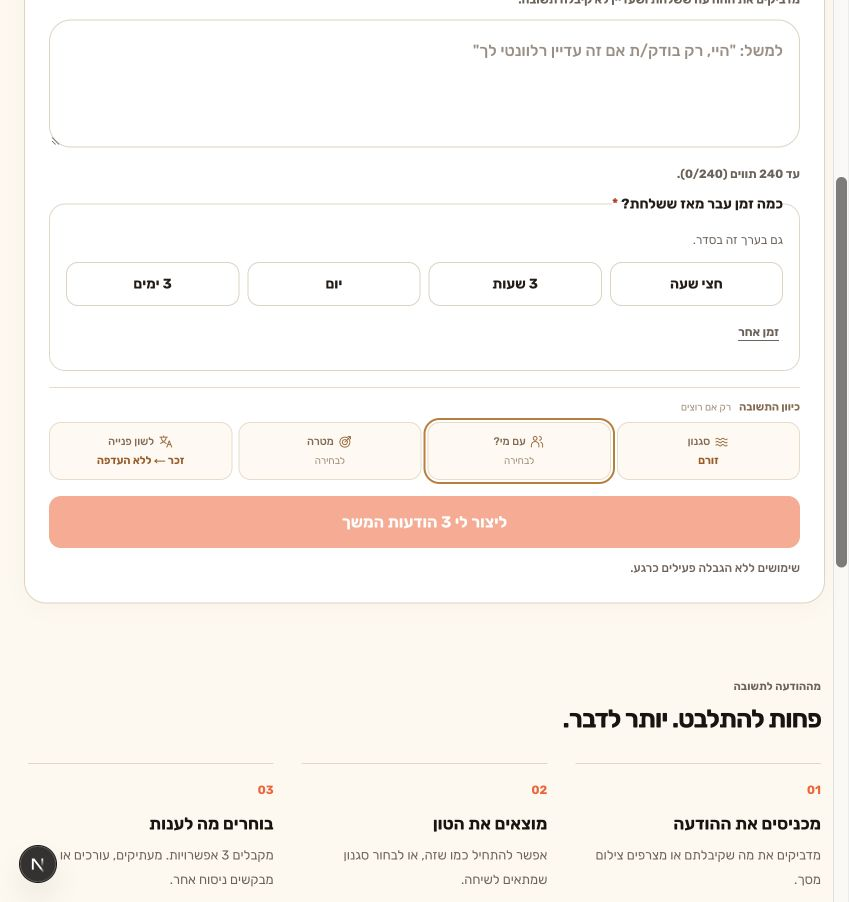
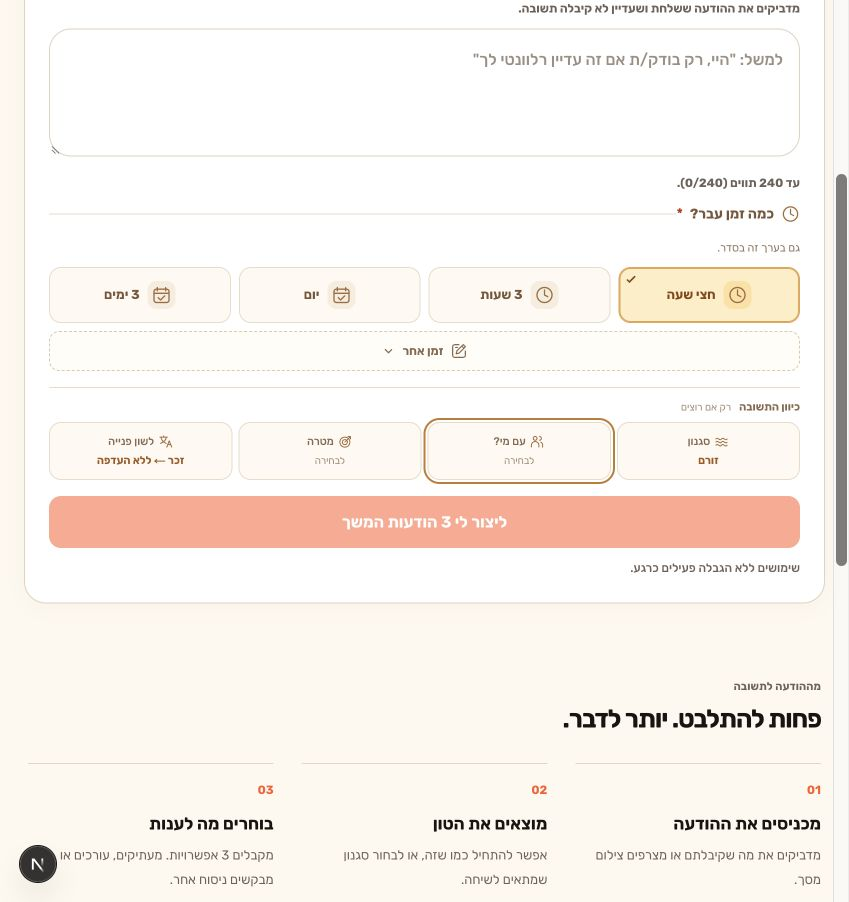
feat: match elapsed-time choices to the reply composer design

diff --git a/app/home-page-client.tsx b/app/home-page-client.tsx
@@ -29,6 +29,7 @@ import { createReplyHistory, recordReplyRefinement, getPreviousReply, clearReply
 import { getMissingCommitmentKind, type CommitmentMode, type LanguagePreferences, type ReplyContext } from '@/lib/reply-context';
 import { CommitmentControls, ContinueConversationDialog } from '@/components/reply-context-controls';
 import { ReplyDirectionControls } from '@/components/reply-direction-controls';
+import { DirectionIcon } from '@/components/direction-choice-visuals';
 import { areGenerationDraftsEqual, type GenerationDraft } from '@/lib/generation-draft';
 import { CONTINUE_PREFERENCE_OPTIONS, type DirectionField, type ContinuePreference, type IncomingGoal, type Goal } from '@/lib/reply-direction';
 import { captureAndStoreAttribution } from '@/lib/attribution';
@@ -2272,6 +2273,8 @@ export default function Home({
     parsedNoReplyDuration >= 1 &&
     parsedNoReplyDuration <= MAX_NO_REPLY_DURATION_VALUE;
   const hasNoReplyDurationUnit = noReplyDurationUnit !== '';
+  const hasCustomNoReplyDuration = hasValidNoReplyDuration && hasNoReplyDurationUnit &&
+    !noReplyDurationPresets.some((preset) => preset.value === noReplyDurationValue && preset.unit === noReplyDurationUnit);
   const isNoReplyReady =
     Boolean(trimmedLastOutgoingMessage) && hasValidNoReplyDuration && hasNoReplyDurationUnit;
   const generateButtonLabel = isLoading
@@ -4993,13 +4996,11 @@ export default function Home({
                     {MAX_LAST_OUTGOING_MESSAGE_LENGTH}).
                   </p>
 
-                  <fieldset className="rounded-2xl border border-[#e2d7c8] bg-[#faf7f2] p-3 sm:p-4">
-                    <legend
-                      className="text-sm font-semibold text-[#241d18]"
-                    >
-                      כמה זמן עבר מאז ששלחת? <span aria-hidden="true" className="text-[#c23318]">*</span>
+                  <fieldset className="sb-duration" aria-label="כמה זמן עבר מאז ששלחת?">
+                    <legend className="sb-duration-heading">
+                      <DirectionIcon name="clock" />כמה זמן עבר? <span aria-hidden="true" className="text-[#c23318]">*</span>
                     </legend>
-                    <p className="text-xs leading-5 text-[#6d6259]">גם בערך זה בסדר.</p>
+                    <p className="sb-duration-help">גם בערך זה בסדר.</p>
                     <div className="sb-duration-presets">
                       {noReplyDurationPresets.map((preset) => {
                         const selected = !showCustomNoReplyDuration && noReplyDurationValue === preset.value && noReplyDurationUnit === preset.unit;
@@ -5014,9 +5015,11 @@ export default function Home({
                               setShowCustomNoReplyDuration(false);
                               setHasTriedNoReplyContinue(false);
                             }}
-                            className={`min-h-[44px] rounded-xl border px-3 py-2 text-sm font-semibold transition ${selected ? 'border-[#ff5a2a] bg-[#fff0ea] text-[#7a2d19] ring-1 ring-[#ff5a2a]' : 'border-[#ded2c3] bg-white text-[#241d18] hover:border-[#b89c83]'} ${lightSurfaceFocusClass}`}
+                            className="sb-duration-option"
                           >
+                            <span className="sb-duration-icon"><DirectionIcon name={preset.unit === 'days' ? 'calendar' : 'clock'} /></span>
                             {preset.label}
+                            {selected ? <svg className="sb-duration-check" width="13" height="13" viewBox="0 0 16 16" fill="none" stroke="currentColor" strokeWidth="2" aria-hidden="true"><path d="m3 8 3 3 7-7" /></svg> : null}
                           </button>
                         );
                       })}
@@ -5025,16 +5028,22 @@ export default function Home({
                       type="button"
                       aria-expanded={showCustomNoReplyDuration}
                       aria-controls="no-reply-custom-duration"
+                      data-selected={hasCustomNoReplyDuration || undefined}
                       onClick={() => {
-                        setShowCustomNoReplyDuration(true);
+                        setShowCustomNoReplyDuration((visible) => !visible);
                         setHasTriedNoReplyContinue(false);
                       }}
-                      className={`mt-1 min-h-[44px] rounded-lg px-1 text-xs font-semibold text-[#6d6259] underline underline-offset-4 ${lightSurfaceFocusClass}`}
+                      className="sb-duration-custom-trigger"
                     >
+                      <DirectionIcon name="note" />
                       זמן אחר
+                      {hasCustomNoReplyDuration ? <span className="sb-duration-custom-value">{noReplyDurationValue} {noReplyDurationUnitOptions.find((option) => option.value === noReplyDurationUnit)?.label}</span> : null}
+                      <svg className="sb-duration-chevron" width="14" height="14" viewBox="0 0 16 16" fill="none" stroke="currentColor" strokeWidth="1.6" aria-hidden="true"><path d="m4 6 4 4 4-4" /></svg>
                     </button>
                     {showCustomNoReplyDuration ? (
-                    <div id="no-reply-custom-duration" className="mt-1 grid grid-cols-[minmax(0,0.8fr)_minmax(0,1fr)] gap-2">
+                    <div id="no-reply-custom-duration" className="sb-duration-custom-fields">
+                      <label htmlFor="no-reply-duration-value">כמה?</label>
+                      <label htmlFor="no-reply-duration-unit">יחידת זמן</label>
                       <input
                         id="no-reply-duration-value"
                         ref={noReplyDurationInputRef}

diff --git a/app/conversation-experience.css b/app/conversation-experience.css
@@ -212,11 +212,37 @@
 .sb-experience .sb-original-logo { width: 40px; height: 40px; flex-shrink: 0; }
 
 /* Compact elapsed-time choices in the follow-up composer. */
+.sb-experience .sb-duration { min-width: 0; margin: 0; padding: 12px 0 0; border: 0; border-top: 1px solid #eadbc9; background: transparent; color: #795637; }
+.sb-duration-heading { display: flex; align-items: center; gap: 7px; padding: 0; font-size: 14px; line-height: 22px; font-weight: 650; }
+.sb-duration-heading > svg { width: 19px; height: 19px; color: #a36a38; }
+.sb-duration-help { margin: 2px 0 10px; font-size: 11px; line-height: 18px; color: #8c7157; }
 .sb-experience .sb-duration-presets {
   display: grid;
   grid-template-columns: repeat(2, minmax(0, 1fr));
   gap: 8px;
-  margin-top: 12px;
+  margin-top: 0;
+}
+.sb-duration-option { position: relative; display: flex; align-items: center; justify-content: center; gap: 8px; min-width: 0; min-height: 56px; padding: 8px 14px; border: 1px solid #eadbc9; border-radius: 12px; background: #fffaf2; color: #795637; font-size: 13px; line-height: 20px; font-weight: 650; cursor: pointer; }
+.sb-duration-icon { display: inline-flex; align-items: center; justify-content: center; flex: 0 0 28px; height: 28px; border-radius: 9px; background: #f6eddf; color: #a36a38; }
+.sb-duration-icon > svg { width: 20px; height: 20px; }
+.sb-duration-option[aria-pressed="true"] { border-color: #e6a451; background: #ffedc5; color: #874611; box-shadow: inset 0 0 0 1px #e6a451; }
+.sb-duration-option[aria-pressed="true"] .sb-duration-icon { background: #ffe0a0; }
+.sb-duration-check { position: absolute; top: 5px; inset-inline-end: 5px; }
+.sb-duration-custom-trigger { display: flex; align-items: center; justify-content: center; gap: 7px; width: 100%; min-height: 40px; margin-top: 8px; padding: 6px 12px; border: 1px dashed #dfc9ad; border-radius: 10px; background: #fffdf8; color: #88694d; font-size: 12px; font-weight: 600; cursor: pointer; }
+.sb-duration-custom-trigger > svg:first-child { width: 17px; height: 17px; }
+.sb-duration-custom-trigger[aria-expanded="true"], .sb-duration-custom-trigger[data-selected] { border-style: solid; border-color: #e6a451; background: #fff0d4; }
+.sb-duration-custom-value { padding-inline-start: 7px; border-inline-start: 1px solid #dfc9ad; color: #874611; font-weight: 700; }
+.sb-duration-custom-trigger[aria-expanded="true"] .sb-duration-chevron { transform: rotate(180deg); }
+.sb-duration-custom-fields { display: grid; grid-template-columns: minmax(0, .8fr) minmax(0, 1fr); gap: 6px 8px; margin-top: 12px; }
+.sb-duration-custom-fields > label { font-size: 11px; color: #88694d; }
+.sb-duration-custom-fields > input, .sb-duration-custom-fields > select { background: #fffdf8; font-size: 16px; }
+.sb-duration-option:focus-visible, .sb-duration-custom-trigger:focus-visible { outline: 2px solid #c17c2c; outline-offset: 2px; }
+@media (hover: hover) {
+  .sb-duration-option:hover, .sb-duration-custom-trigger:hover { background: #fff5e4; border-color: #d6b58e; }
+  .sb-duration-option[aria-pressed="true"]:hover { background: #ffe7b3; }
+}
+@media (prefers-reduced-motion: no-preference) {
+  .sb-duration-option, .sb-duration-custom-trigger { transition: background-color 120ms ease, border-color 120ms ease; }
 }
 @media (min-width: 640px) {
   .sb-experience .sb-duration-presets {

diff --git a/README.md b/README.md
@@ -36,7 +36,7 @@ Open one inline editor, choose an option, and keep the selected value in view.
 
 **לשלוח הודעת המשך** opens the follow-up composer. Paste the last outgoing message
 and choose the elapsed time in one tap: half an hour, 3 hours, a day, or 3 days.
-**זמן אחר** opens the exact number and minutes/hours/days controls.
+**זמן אחר** opens the exact number and minutes/hours/days controls. It can be collapsed without losing the selected duration, which stays visible in the trigger. Time presets use the same cream cards, original SVG icons and gold selection treatment as the reply directions; they fill two phone columns or one desktop row.
 No time is selected by default.
 
 <img src="docs/screenshots/followup-toolbar-mobile.jpg" alt="Hebrew follow-up composer with one-tap elapsed-time choices" width="360" />
@@ -44,6 +44,10 @@ No time is selected by default.
 *Local browser capture updated November 14, 2026. Follow-up toolbar verified in the actual app at 320×568, 378×902 and 849×902: it fills the composer width (270px, 328px and 751px respectively), with four equal-height tiles in a 2×2 phone grid or one desktop row. At 378×400 while editing, the compact strip and generation action share the same 23px side insets. These are emulated viewport checks, not a physical-device keyboard test.*
 
 ![Full-width follow-up toolbar on desktop](docs/screenshots/followup-toolbar-desktop.jpg)
+
+<img src="docs/screenshots/followup-duration-custom-mobile.jpg" alt="Custom elapsed time with labelled number and unit fields and the selected duration in its trigger" width="360">
+
+*Elapsed-time controls checked at 320px, 378px and 849px: all four presets, custom five-hour entry, collapse/reopen retention and return to a preset. No generation or payment was submitted.*
 
 ## What it does
 
